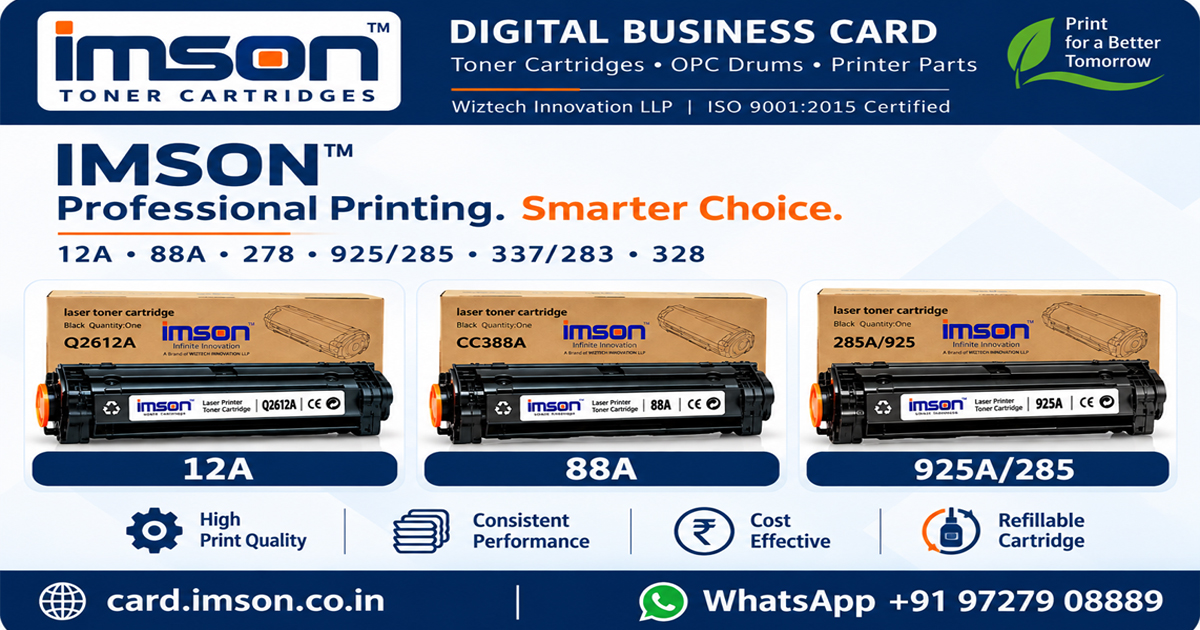
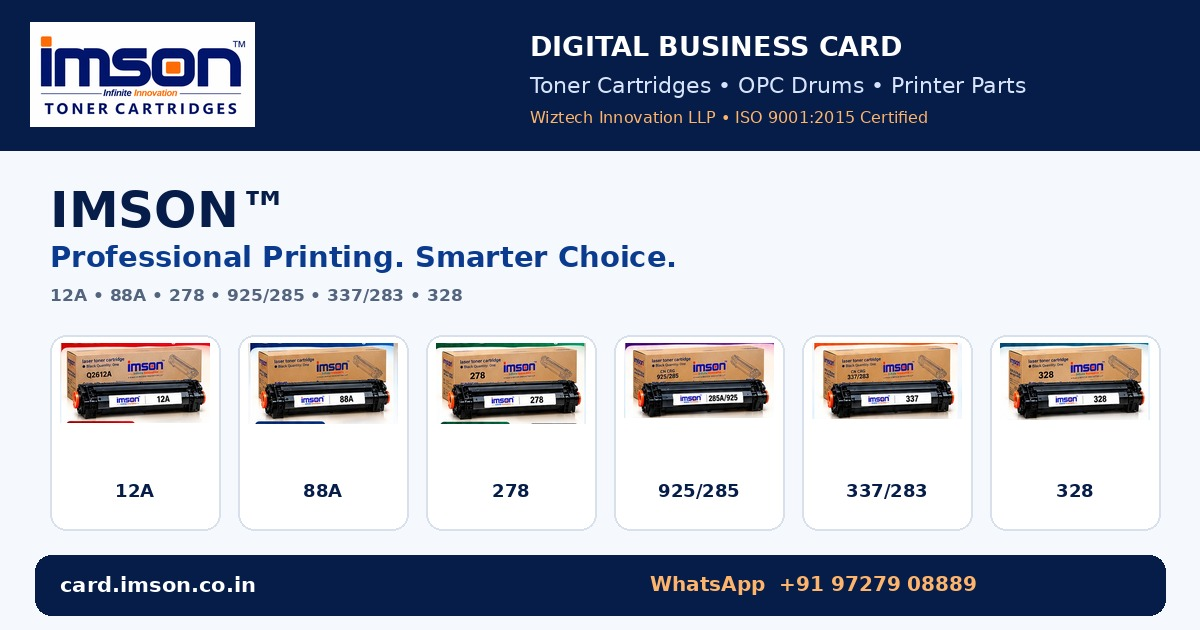
Add files via upload

diff --git a/index.html b/index.html
@@ -13,16 +13,16 @@
 <meta property="og:title" content="IMSON™ | Toner Cartridges & Printer Parts">
 <meta property="og:description" content="IMSON™ Toner Cartridges • OPC Drums • Laser Printer Parts | Wiztech Innovation LLP">
 <meta property="og:url" content="https://card.imson.co.in/">
-<meta property="og:image" content="https://card.imson.co.in/whatsapp-preview-v2.jpg">
-<meta property="og:image:secure_url" content="https://card.imson.co.in/whatsapp-preview-v2.jpg">
+<meta property="og:image" content="https://card.imson.co.in/whatsapp-preview-v3.jpg">
+<meta property="og:image:secure_url" content="https://card.imson.co.in/whatsapp-preview-v3.jpg">
 <meta property="og:image:type" content="image/jpeg">
-<meta property="og:image:width" content="1200">
-<meta property="og:image:height" content="630">
+<meta property="og:image:width" content="1536">
+<meta property="og:image:height" content="1024">
 <meta property="og:image:alt" content="IMSON™ Toner Cartridges, OPC Drums and Laser Printer Parts">
 <meta name="twitter:card" content="summary_large_image">
 <meta name="twitter:title" content="IMSON™ | Toner Cartridges & Printer Parts">
 <meta name="twitter:description" content="IMSON™ Toner Cartridges • OPC Drums • Laser Printer Parts">
-<meta name="twitter:image" content="https://card.imson.co.in/whatsapp-preview-v2.jpg">
+<meta name="twitter:image" content="https://card.imson.co.in/whatsapp-preview-v3.jpg">
 <title>IMSON™ | Toner Cartridges & Printer Parts</title>
 <style>
 :root{--navy:#071d49;--blue:#0b3b8f;--orange:#f47700;--green:#087b58;--light:#f4f7fb;--line:#dfe6f0;--text:#14284d;--muted:#64728a}
@@ -30,27 +30,33 @@
 .wrap{width:100%;max-width:560px;margin:auto;background:#fff;min-height:100vh;box-shadow:0 0 35px #0002}
 header{background:linear-gradient(145deg,#06183e,#0d3678);padding:20px 16px 24px;text-align:center}
 .logo{width:100%;max-width:420px;background:#fff;padding:9px;border-radius:14px;display:block;margin:auto}
-.company{color:#fff;font-weight:900;margin-top:10px;font-size:16px}.cert{color:#cbd8ee;font-size:11px;margin-top:4px}
+.company{color:#fff;font-weight:900;margin-top:10px;font-size:18px}.cert{color:#cbd8ee;font-size:13px;margin-top:4px}
 nav{display:flex;gap:7px;overflow:auto;padding:10px 12px;background:#fff;position:sticky;top:0;z-index:10;border-bottom:1px solid #e7ebf1;scrollbar-width:none}nav::-webkit-scrollbar{display:none}
-nav a{white-space:nowrap;text-decoration:none;padding:9px 13px;border-radius:20px;background:#f2f5f9;color:#17315d;font-size:12px;font-weight:900}nav a:hover{background:#e7edf7}
-.hero{padding:22px 18px 16px;background:linear-gradient(#fff,#f7f9fd)}.eyebrow{color:var(--orange);font-size:11px;font-weight:900;letter-spacing:1.5px}
-h1{font-size:29px;line-height:1.08;margin:8px 0}.hero p{color:var(--muted);font-size:13px;line-height:1.55;margin:0}
-.actions{display:grid;grid-template-columns:1fr 1fr;gap:9px;margin:18px 0 10px}.btn{display:block;text-align:center;text-decoration:none;padding:13px 8px;border-radius:11px;font-size:12px;font-weight:900;border:1px solid #dce3ed;color:var(--navy);background:#fff}.primary{background:var(--navy);color:#fff;border-color:var(--navy)}.orange{background:var(--orange);color:#fff;border-color:var(--orange)}
-.share{width:100%;border:0;background:var(--orange);color:#fff;padding:14px;border-radius:11px;font-weight:900;font-size:12px;margin-top:1px}
-.section{padding:21px 17px;border-top:8px solid var(--light)}.section h2{margin:0;font-size:22px;line-height:1.2}.section-intro{color:var(--muted);font-size:12px;line-height:1.5;margin:6px 0 15px}
-.range{display:grid;grid-template-columns:repeat(3,1fr);gap:7px;margin-top:13px}.range div{background:#fff;border:1px solid var(--line);border-radius:11px;padding:10px 4px;text-align:center;font-size:10px;font-weight:900;box-shadow:0 3px 10px #071d4908}.range b{font-size:13px;color:var(--navy)}
-.subhead{display:flex;align-items:center;justify-content:space-between;gap:10px;margin:18px 0 9px}.subhead h3{margin:0;font-size:17px}.pill{font-size:9px;font-weight:900;padding:6px 9px;border-radius:99px;background:#eef3fa;color:#254a83}
-.product-grid{display:grid;grid-template-columns:1fr;gap:13px}.product{border:1px solid var(--line);border-radius:16px;overflow:hidden;background:#fff;box-shadow:0 5px 18px #071d4910}.product-top{display:flex;align-items:center;justify-content:space-between;padding:11px 13px;background:linear-gradient(90deg,#071d49,#124d9e);color:#fff}.product-top h4{margin:0;font-size:21px;letter-spacing:.2px}.product-top span{font-size:10px;font-weight:900;background:#ffffff20;border:1px solid #ffffff35;padding:5px 8px;border-radius:99px}.product-photo{width:100%;display:block;background:#f5f8fc}.product-body{padding:12px 13px 13px}.model-line{font-size:12px;font-weight:900;color:var(--orange);margin-bottom:7px}.yield{display:inline-block;background:#edf3fb;color:var(--navy);font-size:10px;font-weight:900;border-radius:8px;padding:6px 8px;margin-bottom:10px}.label{font-size:10px;text-transform:uppercase;letter-spacing:.7px;font-weight:900;color:#6b7890;margin-bottom:5px}.printers{font-size:12px;line-height:1.5;color:#233657}.printers b{color:var(--navy)}
-.drums{display:grid;grid-template-columns:1fr 1fr;gap:10px}.drum{border:1px solid var(--line);border-radius:14px;overflow:hidden;background:#fff}.drum img{width:100%;display:block}.drum .dtext{padding:9px;font-size:11px;font-weight:900;line-height:1.35}.green{color:var(--green)}
-.parts-grid{display:grid;grid-template-columns:1fr 1fr;gap:9px}.part{border:1px solid var(--line);border-radius:13px;overflow:hidden;background:#fff}.part img{width:100%;display:block}.part .pt{padding:9px;font-size:11px;font-weight:900;line-height:1.35}.part .small{font-size:9px;color:var(--muted);font-weight:700;margin-top:3px}
-.catalogue-card{border:1px solid var(--line);border-radius:15px;overflow:hidden;margin-top:12px;background:#fff;box-shadow:0 5px 18px #071d4910}.catalogue-card img{width:100%;display:block}.catalogue-card .cap{padding:12px 13px;font-size:12px;font-weight:900}.catalogue-card a{display:block;text-decoration:none;color:inherit}
-.note{background:#f7f9fc;border:1px solid #e5ebf3;border-radius:13px;padding:11px 12px;font-size:10px;line-height:1.5;color:#637189;margin-top:12px}
-.contact{background:#f7f9fc;border-radius:15px;padding:14px;margin-top:10px}.row{padding:10px 0;border-bottom:1px solid #e5e9ef;font-size:12px;line-height:1.45}.row:last-child{border:0}.row b{color:var(--navy)}
-footer{background:var(--navy);color:#fff;text-align:center;padding:23px 16px;font-size:11px;line-height:1.6}.footer-logo{font-size:16px;font-weight:900;letter-spacing:.4px}.footer-orange{color:#ffb46b}
+nav a{white-space:nowrap;text-decoration:none;padding:9px 13px;border-radius:20px;background:#f2f5f9;color:#17315d;font-size:14px;font-weight:900}nav a:hover{background:#e7edf7}
+.hero{padding:22px 18px 16px;background:linear-gradient(#fff,#f7f9fd)}.eyebrow{color:var(--orange);font-size:13px;font-weight:900;letter-spacing:1.5px}
+h1{font-size:31px;line-height:1.08;margin:8px 0}.hero p{color:var(--muted);font-size:15px;line-height:1.55;margin:0}
+.actions{display:grid;grid-template-columns:1fr 1fr;gap:9px;margin:18px 0 10px}.btn{display:block;text-align:center;text-decoration:none;padding:13px 8px;border-radius:11px;font-size:14px;font-weight:900;border:1px solid #dce3ed;color:var(--navy);background:#fff}.primary{background:var(--navy);color:#fff;border-color:var(--navy)}.orange{background:var(--orange);color:#fff;border-color:var(--orange)}
+.share{width:100%;border:0;background:var(--orange);color:#fff;padding:14px;border-radius:11px;font-weight:900;font-size:14px;margin-top:1px}
+.section{padding:21px 17px;border-top:8px solid var(--light)}.section h2{margin:0;font-size:24px;line-height:1.2}.section-intro{color:var(--muted);font-size:14px;line-height:1.5;margin:6px 0 15px}
+.range{display:grid;grid-template-columns:repeat(3,1fr);gap:7px;margin-top:13px}.range div{background:#fff;border:1px solid var(--line);border-radius:11px;padding:10px 4px;text-align:center;font-size:12px;font-weight:900;box-shadow:0 3px 10px #071d4908}.range b{font-size:15px;color:var(--navy)}
+.subhead{display:flex;align-items:center;justify-content:space-between;gap:10px;margin:18px 0 9px}.subhead h3{margin:0;font-size:19px}.pill{font-size:11px;font-weight:900;padding:6px 9px;border-radius:99px;background:#eef3fa;color:#254a83}
+.product-grid{display:grid;grid-template-columns:1fr;gap:13px}.product{border:1px solid var(--line);border-radius:16px;overflow:hidden;background:#fff;box-shadow:0 5px 18px #071d4910}.product-top{display:flex;align-items:center;justify-content:space-between;padding:11px 13px;background:linear-gradient(90deg,#071d49,#124d9e);color:#fff}.product-top h4{margin:0;font-size:23px;letter-spacing:.2px}.product-top span{font-size:12px;font-weight:900;background:#ffffff20;border:1px solid #ffffff35;padding:5px 8px;border-radius:99px}.product-photo{width:100%;display:block;background:#f5f8fc}.product-body{padding:12px 13px 13px}.model-line{font-size:14px;font-weight:900;color:var(--orange);margin-bottom:7px}.yield{display:inline-block;background:#edf3fb;color:var(--navy);font-size:12px;font-weight:900;border-radius:8px;padding:6px 8px;margin-bottom:10px}.label{font-size:12px;text-transform:uppercase;letter-spacing:.7px;font-weight:900;color:#6b7890;margin-bottom:5px}.printers{font-size:14px;line-height:1.5;color:#233657}.printers b{color:var(--navy)}
+.drums{display:grid;grid-template-columns:1fr 1fr;gap:10px}.drum{border:1px solid var(--line);border-radius:14px;overflow:hidden;background:#fff}.drum img{width:100%;display:block}.drum .dtext{padding:9px;font-size:13px;font-weight:900;line-height:1.35}.green{color:var(--green)}
+.parts-grid{display:grid;grid-template-columns:1fr 1fr;gap:9px}.part{border:1px solid var(--line);border-radius:13px;overflow:hidden;background:#fff}.part img{width:100%;display:block}.part .pt{padding:9px;font-size:13px;font-weight:900;line-height:1.35}.part .small{font-size:11px;color:var(--muted);font-weight:700;margin-top:3px}
+.catalogue-card{border:1px solid var(--line);border-radius:15px;overflow:hidden;margin-top:12px;background:#fff;box-shadow:0 5px 18px #071d4910}.catalogue-card img{width:100%;display:block}.catalogue-card .cap{padding:12px 13px;font-size:14px;font-weight:900}.catalogue-card a{display:block;text-decoration:none;color:inherit}
+.note{background:#f7f9fc;border:1px solid #e5ebf3;border-radius:13px;padding:11px 12px;font-size:12px;line-height:1.5;color:#637189;margin-top:12px}
+.contact{background:#f7f9fc;border-radius:15px;padding:14px;margin-top:10px}.row{padding:10px 0;border-bottom:1px solid #e5e9ef;font-size:14px;line-height:1.45}.row:last-child{border:0}.row b{color:var(--navy)}
+footer{background:var(--navy);color:#fff;text-align:center;padding:23px 16px;font-size:13px;line-height:1.6}.footer-logo{font-size:18px;font-weight:900;letter-spacing:.4px}.footer-orange{color:#ffb46b}
 @media(min-width:700px){body{padding:20px 0}.wrap{border-radius:20px;overflow:hidden}.product-grid{grid-template-columns:1fr 1fr}.parts-grid{grid-template-columns:repeat(3,1fr)}}
 
 .product-photo{width:100%;height:185px;object-fit:contain;background:#fff;display:block;padding:4px;box-sizing:border-box;}
 @media(max-width:700px){.product-photo{height:175px;}}
+
+/* Final typography +2px alignment polish */
+.product-photo{object-position:center center;}
+.product-body{min-width:0;}
+.printers{overflow-wrap:anywhere;}
+.range div{min-height:54px;display:flex;flex-direction:column;justify-content:center;}
 </style>
 </head>
 <body>
